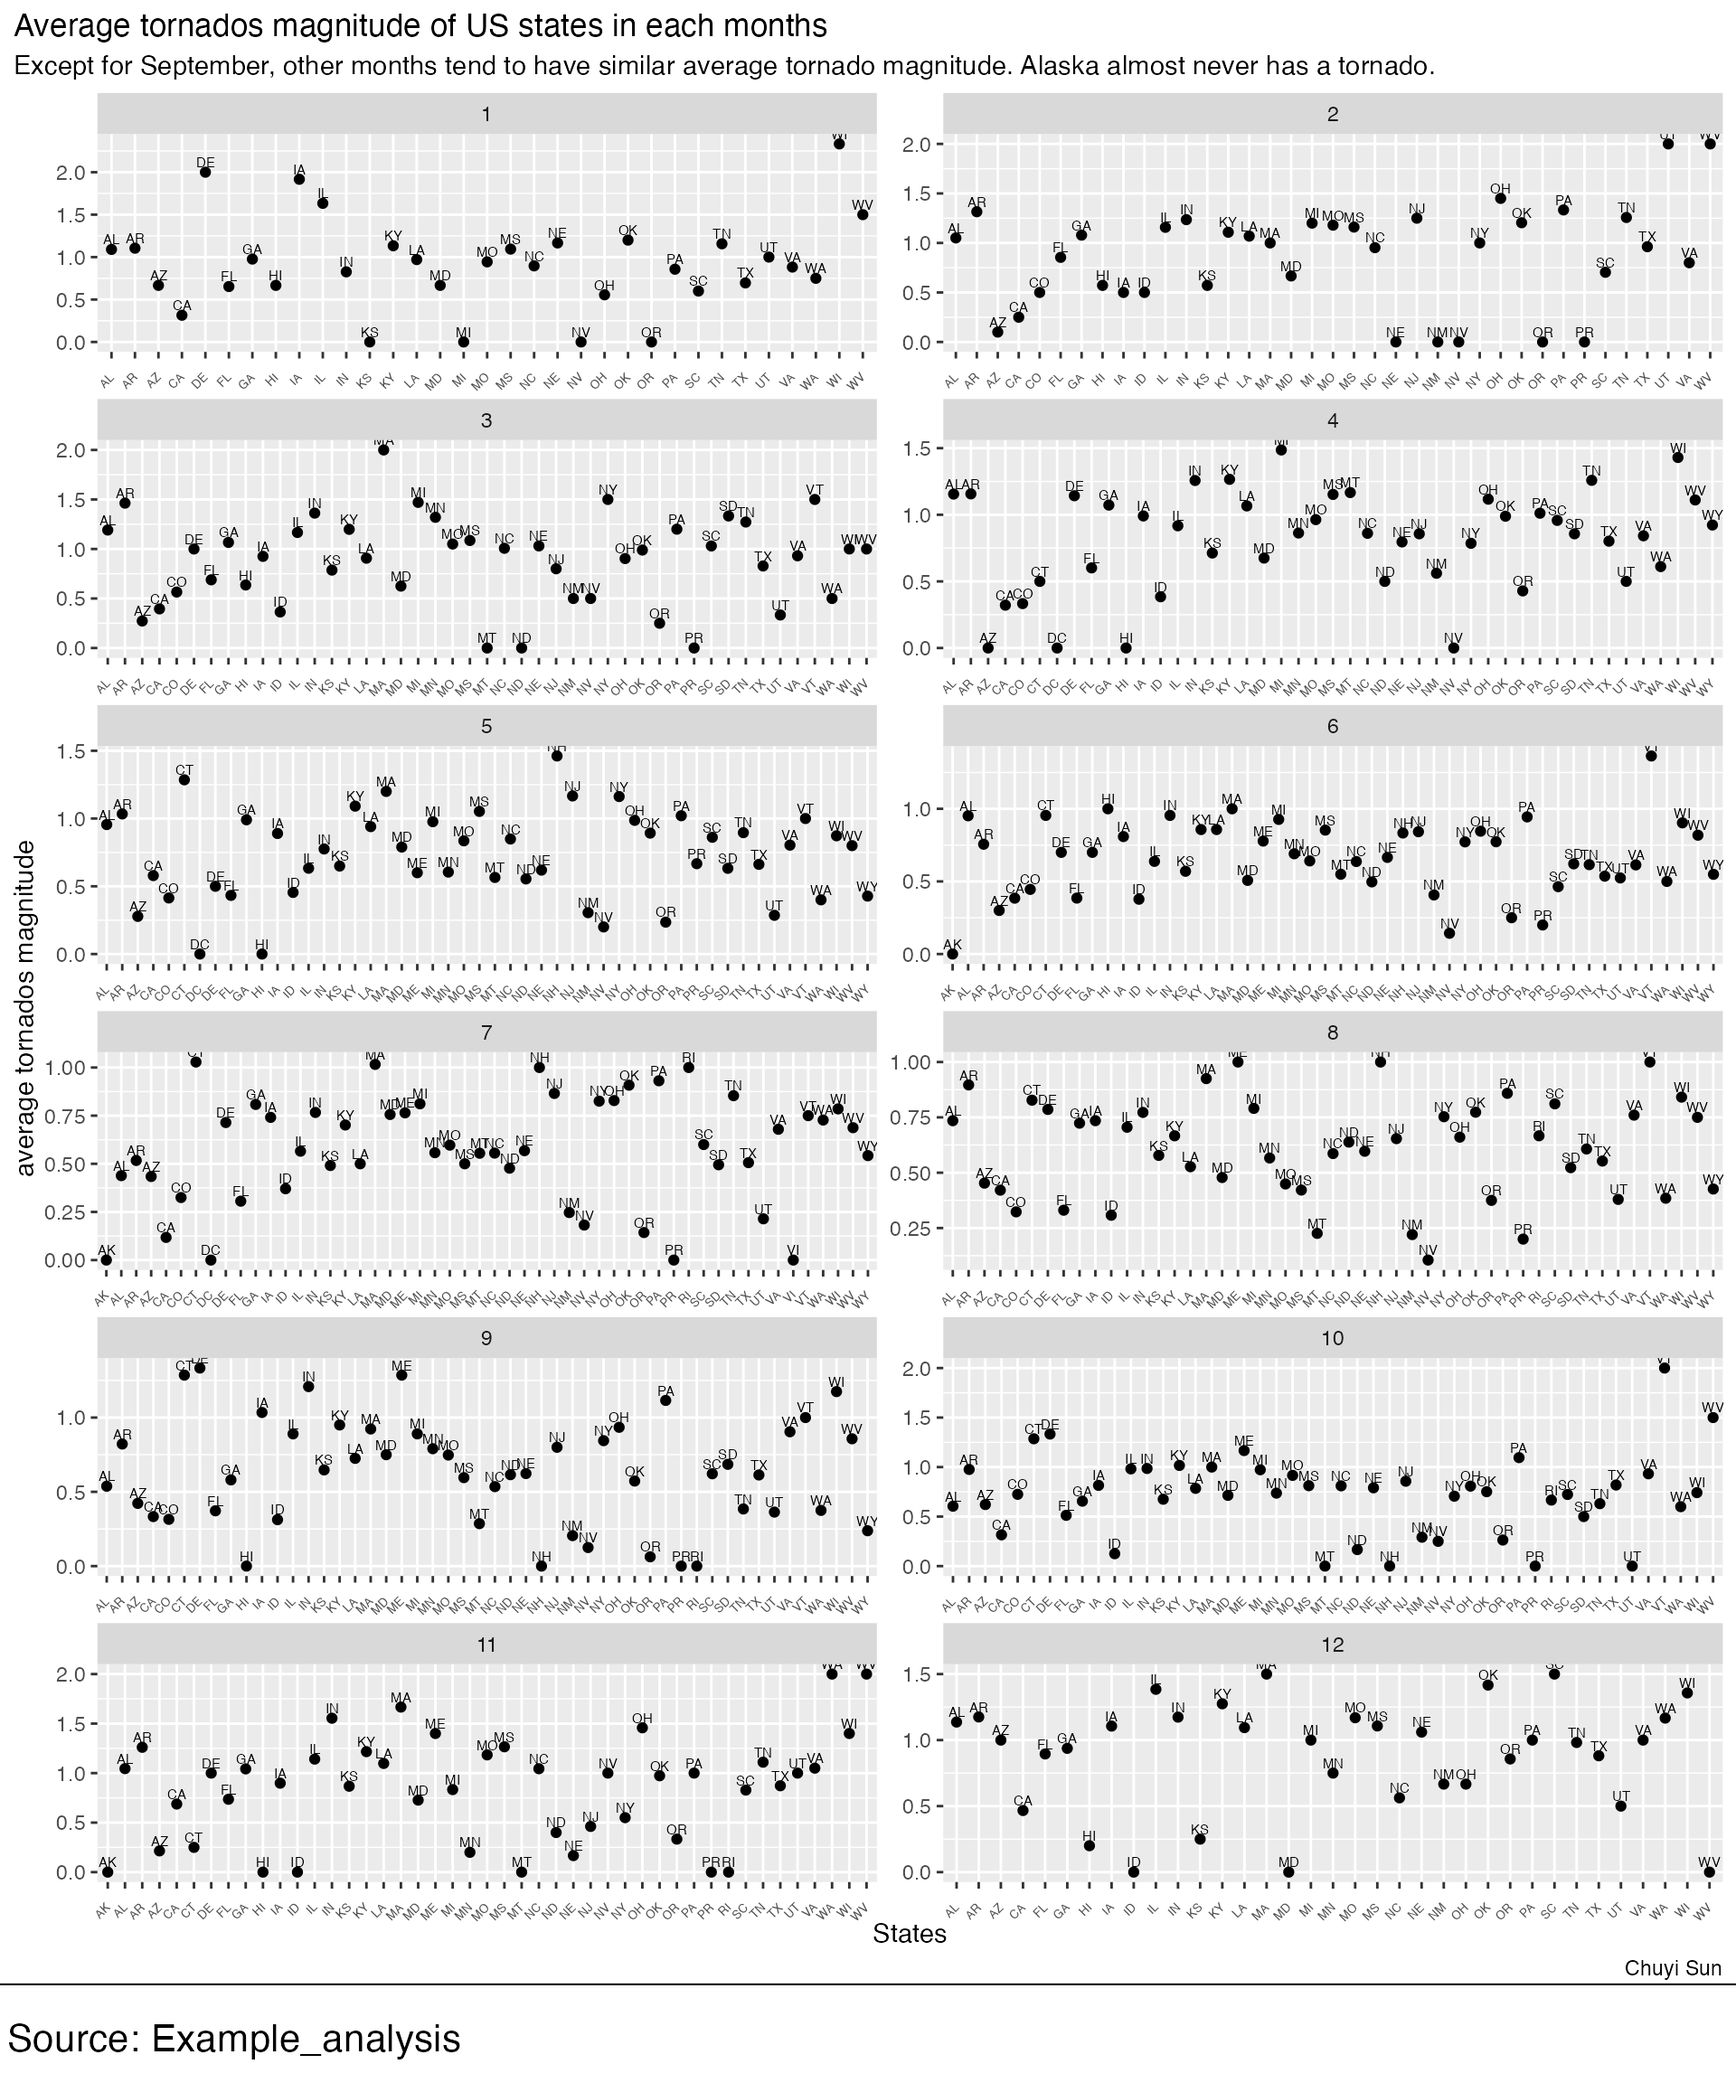
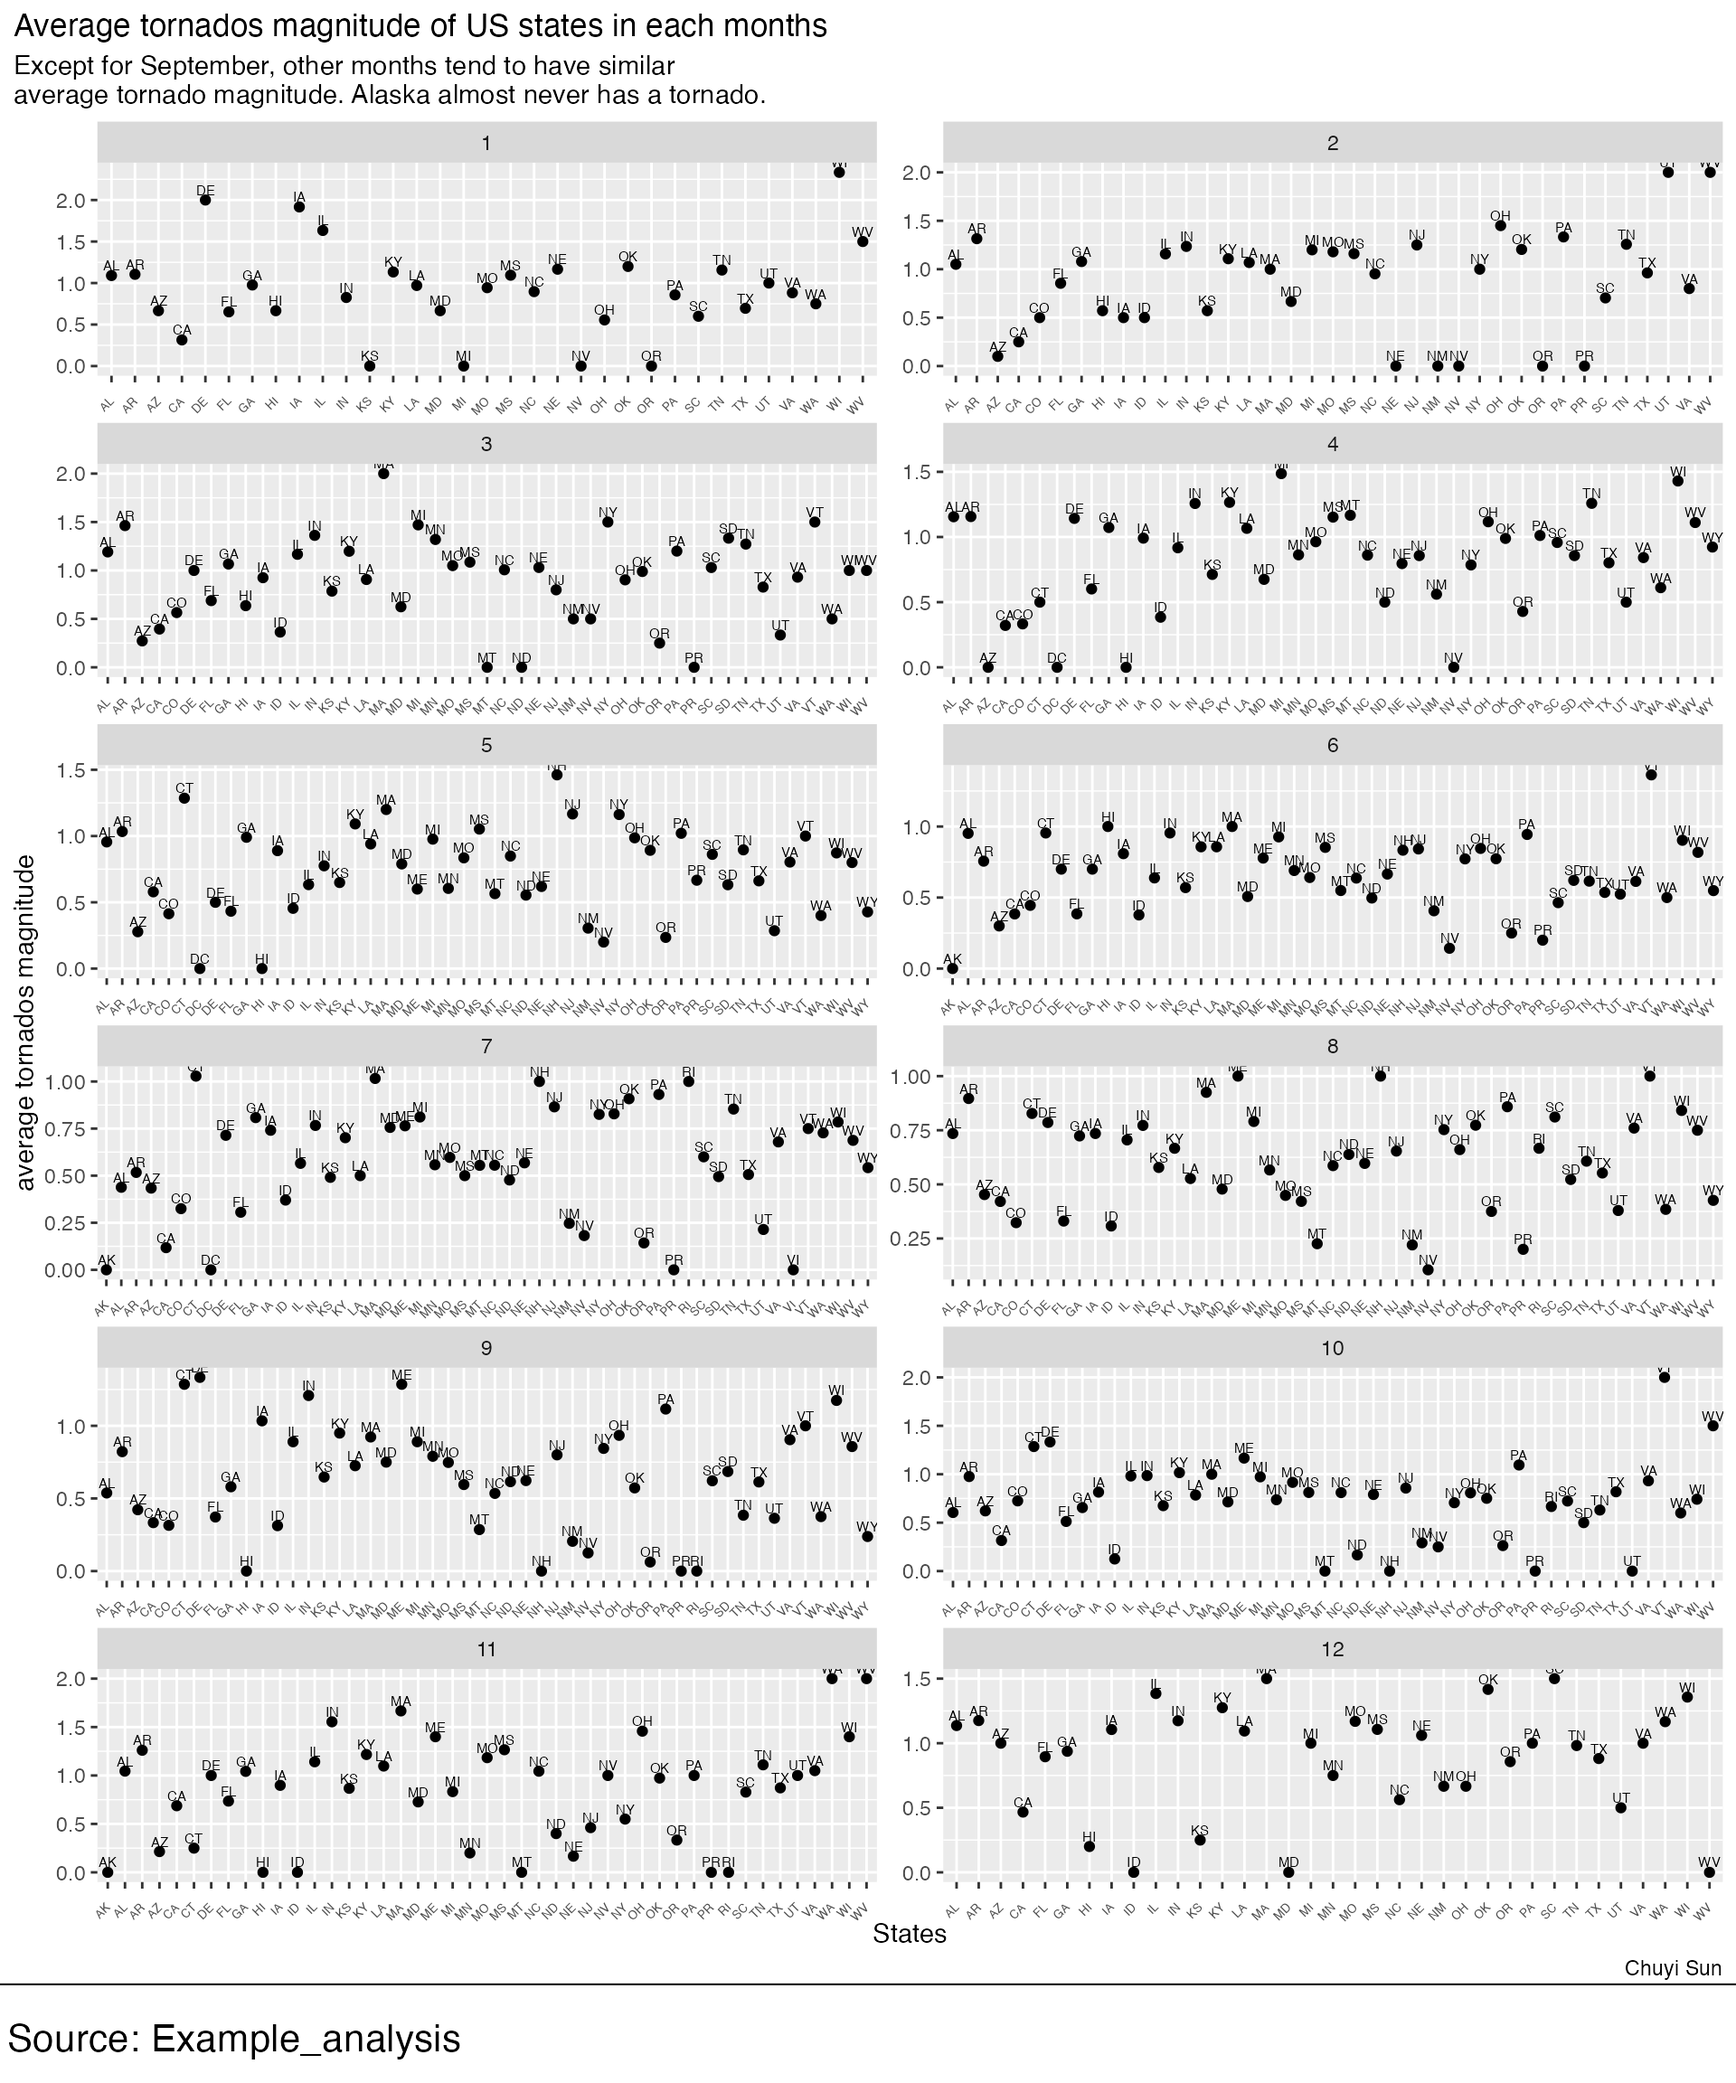
new

diff --git a/docs/articles/Example_analysis.html b/docs/articles/Example_analysis.html
@@ -234,10 +234,11 @@
 <span>  <span class="fu"><a href="https://ggplot2.tidyverse.org/reference/ggplot.html" class="external-link">ggplot</a></span><span class="op">(</span><span class="fu"><a href="https://ggplot2.tidyverse.org/reference/aes.html" class="external-link">aes</a></span><span class="op">(</span>x<span class="op">=</span><span class="va">yr</span>, y<span class="op">=</span><span class="va">fl_mag_mean</span><span class="op">)</span><span class="op">)</span><span class="op">+</span></span>
 <span>  <span class="fu"><a href="https://ggplot2.tidyverse.org/reference/geom_path.html" class="external-link">geom_line</a></span><span class="op">(</span><span class="op">)</span><span class="op">+</span></span>
 <span>  <span class="fu"><a href="https://ggplot2.tidyverse.org/reference/labs.html" class="external-link">labs</a></span><span class="op">(</span>title <span class="op">=</span> <span class="st">"Florida average tornados magnitude from 1950-2020"</span>,</span>
-<span>       subtitle <span class="op">=</span> <span class="st">"There is a decreasing trend from 1950 to 2020. The lowest period is around 2000."</span>,  x<span class="op">=</span><span class="st">"years"</span>, y<span class="op">=</span><span class="st">"average tornados magnitude"</span>, caption <span class="op">=</span> <span class="st">"Chuyi Sun"</span><span class="op">)</span><span class="op">+</span></span>
+<span>       subtitle <span class="op">=</span> <span class="st">"There is a decreasing trend from 1950 to 2020. </span></span>
+<span><span class="st">The lowest period is around 2000."</span>,  x<span class="op">=</span><span class="st">"years"</span>, y<span class="op">=</span><span class="st">"average tornados magnitude"</span>, caption <span class="op">=</span> <span class="st">"Chuyi Sun"</span><span class="op">)</span><span class="op">+</span></span>
 <span>  <span class="fu"><a href="../reference/bbc_style.html">bbc_style</a></span><span class="op">(</span><span class="op">)</span><span class="op">+</span></span>
-<span>  <span class="fu"><a href="https://ggplot2.tidyverse.org/reference/theme.html" class="external-link">theme</a></span><span class="op">(</span>plot.title<span class="op">=</span><span class="fu"><a href="https://ggplot2.tidyverse.org/reference/element.html" class="external-link">element_text</a></span><span class="op">(</span>size <span class="op">=</span> <span class="fl">15</span><span class="op">)</span><span class="op">)</span></span></code></pre></div>
-<p><img src="Example_analysis_files/figure-html/unnamed-chunk-6-1.png" width="672"></p>
+<span>  <span class="fu"><a href="https://ggplot2.tidyverse.org/reference/theme.html" class="external-link">theme</a></span><span class="op">(</span>plot.title<span class="op">=</span><span class="fu"><a href="https://ggplot2.tidyverse.org/reference/element.html" class="external-link">element_text</a></span><span class="op">(</span>size <span class="op">=</span> <span class="fl">15</span><span class="op">)</span>, plot.subtitle <span class="op">=</span> <span class="fu"><a href="https://ggplot2.tidyverse.org/reference/element.html" class="external-link">element_text</a></span><span class="op">(</span>size <span class="op">=</span> <span class="fl">9</span><span class="op">)</span><span class="op">)</span></span></code></pre></div>
+<p><img src="Example_analysis_files/figure-html/unnamed-chunk-6-1.png" width="960"></p>
 </div>
 <div class="section level2">
 <h2 id="plot-2">Plot 2<a class="anchor" aria-label="anchor" href="#plot-2"></a>
@@ -255,7 +256,8 @@
 <span>  <span class="fu"><a href="https://ggplot2.tidyverse.org/reference/geom_point.html" class="external-link">geom_point</a></span><span class="op">(</span><span class="op">)</span><span class="op">+</span></span>
 <span>  <span class="fu"><a href="https://ggplot2.tidyverse.org/reference/facet_wrap.html" class="external-link">facet_wrap</a></span><span class="op">(</span><span class="op">~</span><span class="va">mo</span>, nrow <span class="op">=</span> <span class="fl">6</span>, scales <span class="op">=</span> <span class="st">"free"</span><span class="op">)</span><span class="op">+</span> </span>
 <span>  <span class="fu"><a href="https://ggplot2.tidyverse.org/reference/labs.html" class="external-link">labs</a></span><span class="op">(</span>title <span class="op">=</span> <span class="st">"Average tornados magnitude of US states in each months"</span>,</span>
-<span>       subtitle <span class="op">=</span> <span class="st">"Except for September, other months tend to have similar average tornado magnitude. Alaska almost never has a tornado."</span>, x<span class="op">=</span><span class="st">"States"</span>, y<span class="op">=</span><span class="st">"average tornados magnitude"</span>, caption <span class="op">=</span> <span class="st">"Chuyi Sun"</span><span class="op">)</span><span class="op">+</span></span>
+<span>       subtitle <span class="op">=</span> <span class="st">"Except for September, other months tend to have similar </span></span>
+<span><span class="st">average tornado magnitude. Alaska almost never has a tornado."</span>, x<span class="op">=</span><span class="st">"States"</span>, y<span class="op">=</span><span class="st">"average tornados magnitude"</span>, caption <span class="op">=</span> <span class="st">"Chuyi Sun"</span><span class="op">)</span><span class="op">+</span></span>
 <span>  <span class="fu"><a href="https://ggplot2.tidyverse.org/reference/geom_text.html" class="external-link">geom_text</a></span><span class="op">(</span><span class="fu"><a href="https://ggplot2.tidyverse.org/reference/aes.html" class="external-link">aes</a></span><span class="op">(</span>label<span class="op">=</span><span class="va">st</span><span class="op">)</span>,size<span class="op">=</span><span class="fl">2</span>,vjust <span class="op">=</span> <span class="op">-</span><span class="fl">0.5</span><span class="op">)</span><span class="op">+</span></span>
 <span>  <span class="fu"><a href="https://ggplot2.tidyverse.org/reference/theme.html" class="external-link">theme</a></span><span class="op">(</span>axis.text.x <span class="op">=</span> <span class="fu"><a href="https://ggplot2.tidyverse.org/reference/element.html" class="external-link">element_text</a></span><span class="op">(</span>angle <span class="op">=</span> <span class="fl">45</span>, vjust <span class="op">=</span> <span class="fl">0.5</span>, hjust<span class="op">=</span><span class="fl">1</span>, size <span class="op">=</span> <span class="fl">5</span><span class="op">)</span><span class="op">)</span></span>
 <span></span>
@@ -274,8 +276,9 @@
 <span>  <span class="fu"><a href="https://ggplot2.tidyverse.org/reference/ggplot.html" class="external-link">ggplot</a></span><span class="op">(</span><span class="fu"><a href="https://ggplot2.tidyverse.org/reference/aes.html" class="external-link">aes</a></span><span class="op">(</span>x<span class="op">=</span><span class="va">stage</span>, y<span class="op">=</span><span class="va">stage_sum</span><span class="op">)</span><span class="op">)</span><span class="op">+</span></span>
 <span>  <span class="fu"><a href="https://ggplot2.tidyverse.org/reference/geom_bar.html" class="external-link">geom_bar</a></span><span class="op">(</span>stat<span class="op">=</span><span class="st">"identity"</span><span class="op">)</span><span class="op">+</span></span>
 <span>  <span class="fu"><a href="https://ggplot2.tidyverse.org/reference/labs.html" class="external-link">labs</a></span><span class="op">(</span>title <span class="op">=</span> <span class="st">"Total injuries in tornados in every 24 years"</span>,</span>
-<span>       subtitle <span class="op">=</span> <span class="st">"Between 1950-1974, there were a lot of injuries, and 2000-2024 had the lowest injuries. There is a decreasing trend over time."</span>, x<span class="op">=</span><span class="st">"States"</span>, y<span class="op">=</span><span class="st">"average tornados magnitude"</span>, caption <span class="op">=</span> <span class="st">"Chuyi Sun"</span><span class="op">)</span></span></code></pre></div>
-<p><img src="Example_analysis_files/figure-html/unnamed-chunk-8-1.png" width="700"></p>
+<span>       subtitle <span class="op">=</span> <span class="st">"Between 1950-1974, there were a lot of injuries, and 2000-2024 </span></span>
+<span><span class="st">had the lowest injuries. There is a decreasing trend over time."</span>, x<span class="op">=</span><span class="st">"States"</span>, y<span class="op">=</span><span class="st">"average tornados magnitude"</span>, caption <span class="op">=</span> <span class="st">"Chuyi Sun"</span><span class="op">)</span></span></code></pre></div>
+<p><img src="Example_analysis_files/figure-html/unnamed-chunk-8-1.png" width="960"></p>
 </div>
 <div class="section level2">
 <h2 id="summary">Summary<a class="anchor" aria-label="anchor" href="#summary"></a>

diff --git a/docs/index.html b/docs/index.html
@@ -76,8 +76,12 @@
 <li><p>Change the navigation bar</p></li>
 <li><p>Change the code background</p></li>
 </ul>
-<div class="section level3"><h3 id="author">Author<a class="anchor" aria-label="anchor" href="#author"></a>
-</h3></div>
+<div class="section level3">
+<h3 id="author">Author<a class="anchor" aria-label="anchor" href="#author"></a>
+</h3>
+<p>The author of this website and example analysis Chuyi Sun.</p>
+<p>The authors of the package are Nassos Stylianou, Clara Guibourg, Will Dahlgreen, Robert Cuffe, Tom Calver, and Ransome Mpini.</p>
+</div>
 </div>
 <div class="section level2">
 <h2 id="original-readme">Original README<a class="anchor" aria-label="anchor" href="#original-readme"></a>
